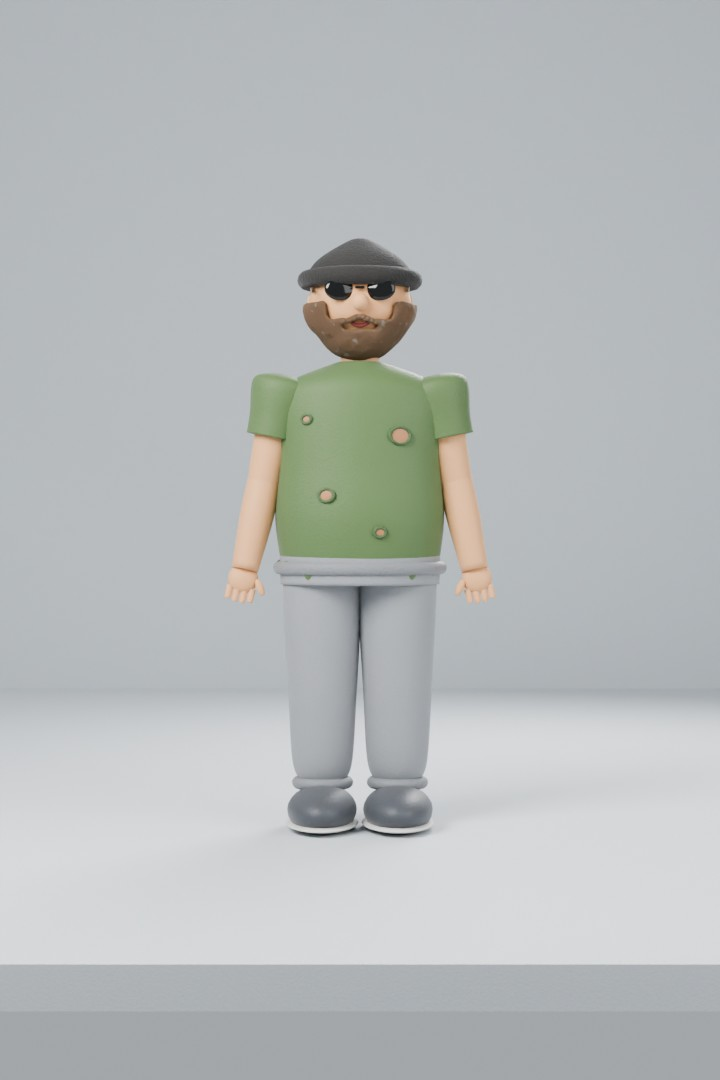
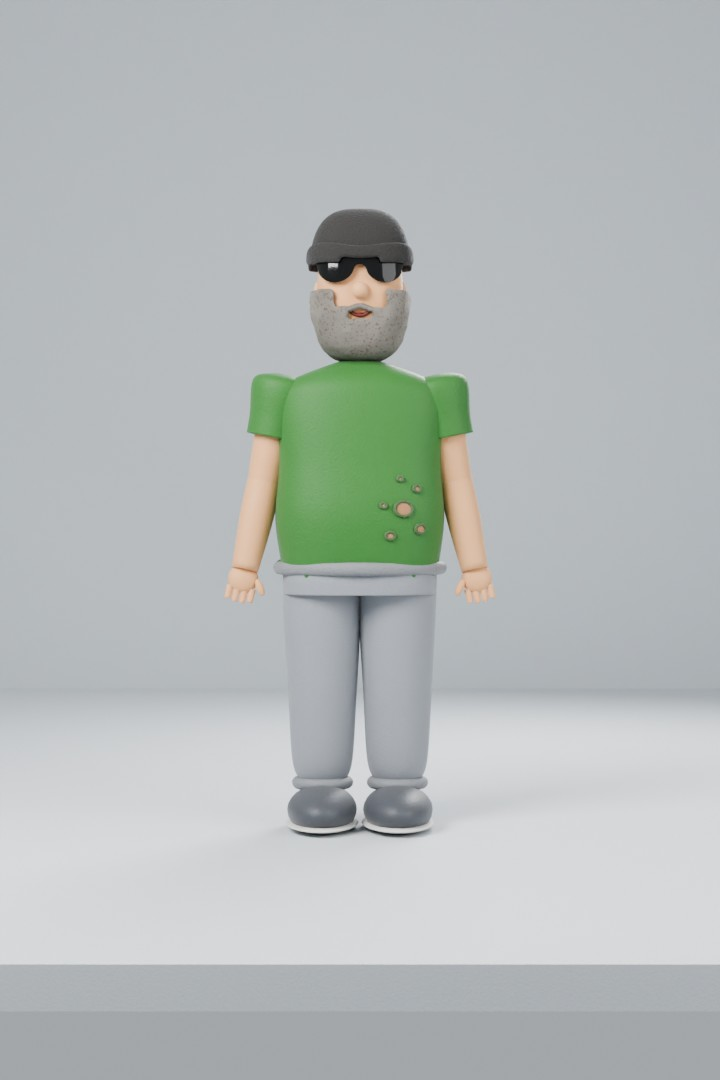
Clay cast round 2: tall rounded-rectangle heads, square chins, wraparound shades, grey beard, bolder colors, blue eyes for Noah
Claude-Session: https://claude.ai/code/session_019LTUK5TRCUq7exxyQvjX2M

Changed region(s): [[0.3361, 0.1833, 0.6722, 0.5806]]

diff --git a/clay/sheets/sheets.src.html b/clay/sheets/sheets.src.html
@@ -88,8 +88,9 @@ dd { margin: 0; font-size: 15px; }
 
 <div class="wrap">
   <header>
-    <div class="eyebrow">Life at Tradesman · clay version · draft 4 · first clay sculpts</div>
+    <div class="eyebrow">Life at Tradesman · clay version · draft 5 · clay sculpts, round 2</div>
     <h1>Clay model sheets for Noah, Lu and the Boss</h1>
+    <p><b>Style (round 2):</b> taller, narrower heads shaped like rounded rectangles in the spirit of Gromit, with squarer chins for Lu and the Boss and bolder clothing colors.</p>
     <p>Drafted from your comic, not from the v1 cartoon puppets, and now with a first clay sculpt of each character at the bottom of their sheet. Each sheet pins down what has to stay true to the comic (silhouette, hair, face, outfit, colors) so the clay builds match it. Correct anything that is wrong. The handwritten questions are the things I could not tell from the comic.</p>
   </header>
 
@@ -103,7 +104,7 @@ dd { margin: 0; font-size: 15px; }
     <div class="sheet-head"><h2>Noah</h2><span class="role">The kid with the clipboard and the red cape</span><span class="no">SHEET 1 / 3</span></div>
     <div class="sheet-body">
       <div class="refs">
-        <figure><img src="{{noah-phone}}" alt="Comic panel: Noah running and shouting into a phone, red cape flying"><figcaption>best face reference: big brown eyes, shaggy fringe, cape tied at the throat</figcaption></figure>
+        <figure><img src="{{noah-phone}}" alt="Comic panel: Noah running and shouting into a phone, red cape flying"><figcaption>best face reference: shaggy fringe, cape tied at the throat</figcaption></figure>
         <div class="pair">
           <figure><img src="{{noah-check}}" alt="Comic panel: Noah writing on a clipboard"><figcaption>focused face, pen grip, clipboard</figcaption></figure>
           <figure><img src="{{chase}}" alt="Comic panel: Lu chasing Noah down the road, seen from behind"><figcaption>back view: cape, shorts, boots</figcaption></figure>
@@ -113,7 +114,7 @@ dd { margin: 0; font-size: 15px; }
         <div><h3>What must read</h3>
           <dl>
             <dt>Silhouette</dt><dd>Small, slim 8-year-old, about chest-height to Lu. The cape streams out behind him whenever he moves.</dd>
-            <dt>Head</dt><dd>Round face, soft chin, small button nose, big brown eyes with white highlights, very expressive brows.</dd>
+            <dt>Head</dt><dd>Round face, soft chin, small button nose, big blue eyes with white highlights, very expressive brows.</dd>
             <dt>Hair</dt><dd>Medium brown, short and shaggy. Pointed tufts fall over the forehead, with a few strands sticking up at the crown.</dd>
             <dt>Outfit</dt><dd>Slate-blue crew-neck tee with a small hot-tub logo on the chest (Noah's hot tub business; new for the clay version), olive-khaki shorts to the knee, white crew socks, brown lace-up boots.</dd>
             <dt>Signature</dt><dd>A red cape, tied at the throat, that streams out behind him. Clipboard and pen, and a phone in the call scene.</dd>
@@ -123,9 +124,9 @@ dd { margin: 0; font-size: 15px; }
           <div class="swatches">
             <div class="sw"><i style="background:#5b3a22"></i><span>Hair</span><code>#5b3a22</code></div>
             <div class="sw"><i style="background:#eab98f"></i><span>Skin</span><code>#eab98f</code></div>
-            <div class="sw"><i style="background:#4f6a7d"></i><span>Tee</span><code>#4f6a7d</code></div>
-            <div class="sw"><i style="background:#c4472e"></i><span>Cape</span><code>#c4472e</code></div>
-            <div class="sw"><i style="background:#636036"></i><span>Shorts</span><code>#636036</code></div>
+            <div class="sw"><i style="background:#1f4f9e"></i><span>Tee</span><code>#1f4f9e</code></div>
+            <div class="sw"><i style="background:#e01b1b"></i><span>Cape</span><code>#e01b1b</code></div>
+            <div class="sw"><i style="background:#6a6620"></i><span>Shorts</span><code>#6a6620</code></div>
             <div class="sw"><i style="background:#7b4a29"></i><span>Boots</span><code>#7b4a29</code></div>
           </div></div>
         <div><h3>Clay translation</h3>
@@ -145,8 +146,8 @@ dd { margin: 0; font-size: 15px; }
       </div>
     </div>
       <div class="turn">
-      <h3>Clay turnaround · first sculpt</h3>
-      <p>Shaggy brown locks with the fringe at his brows, big brown eyes, the red cape tied at the throat, and the little hot tub with steam on his tee.</p>
+      <h3>Clay turnaround · round 2</h3>
+      <p>Shaggy brown locks with the fringe at his brows, big blue eyes (blue in real life), the red cape tied at the throat, and the little hot tub with steam on his tee.</p>
       <div class="views"><figure><img src="{{turn:noah_front}}" alt="Clay noah front view"><figcaption>front</figcaption></figure><figure><img src="{{turn:noah_three-quarter}}" alt="Clay noah ¾ view"><figcaption>¾</figcaption></figure><figure><img src="{{turn:noah_side}}" alt="Clay noah side view"><figcaption>side</figcaption></figure><figure><img src="{{turn:noah_back}}" alt="Clay noah back view"><figcaption>back</figcaption></figure></div>
       <div class="faces"><figure><img src="{{turn:noah_expr_focused}}" alt="Clay noah, focused expression"><figcaption>focused</figcaption></figure><figure><img src="{{turn:noah_expr_startled}}" alt="Clay noah, startled expression"><figcaption>startled</figcaption></figure><figure><img src="{{turn:noah_expr_yell}}" alt="Clay noah, yell expression"><figcaption>yell</figcaption></figure></div>
     </div>
@@ -196,8 +197,8 @@ dd { margin: 0; font-size: 15px; }
       </div>
     </div>
       <div class="turn">
-      <h3>Clay turnaround · first sculpt</h3>
-      <p>Swept-up black hair, thin amber glasses, a faint five o'clock shadow on the jaw, and the Olympic rings on his cream tee.</p>
+      <h3>Clay turnaround · round 2</h3>
+      <p>Swept-up black hair with the hairline raised off his brows, thin amber glasses, a faint five o'clock shadow on a squarer jaw, and the Olympic rings on his tee.</p>
       <div class="views"><figure><img src="{{turn:lu_front}}" alt="Clay lu front view"><figcaption>front</figcaption></figure><figure><img src="{{turn:lu_three-quarter}}" alt="Clay lu ¾ view"><figcaption>¾</figcaption></figure><figure><img src="{{turn:lu_side}}" alt="Clay lu side view"><figcaption>side</figcaption></figure><figure><img src="{{turn:lu_back}}" alt="Clay lu back view"><figcaption>back</figcaption></figure></div>
       <div class="faces"><figure><img src="{{turn:lu_expr_beaming}}" alt="Clay lu, beaming expression"><figcaption>beaming</figcaption></figure><figure><img src="{{turn:lu_expr_determined}}" alt="Clay lu, determined expression"><figcaption>determined</figcaption></figure><figure><img src="{{turn:lu_expr_no}}" alt="Clay lu, No! expression"><figcaption>No!</figcaption></figure></div>
     </div>
@@ -217,7 +218,7 @@ dd { margin: 0; font-size: 15px; }
         <div><h3>What must read</h3>
           <dl>
             <dt>Silhouette</dt><dd>Broad and stocky with thick arms and a solid chest. Wider than Lu, a little shorter.</dd>
-            <dt>Head</dt><dd>Always a black rolled-cuff beanie and black sunglasses. A short full beard, light brown with some grey. A big crinkly grin.</dd>
+            <dt>Head</dt><dd>Always a black rolled-cuff beanie and black sunglasses. A short full beard, mostly grey with some light-brown streaks. A big crinkly grin.</dd>
             <dt>Outfit</dt><dd>The same old sage-green tee, worn thin, fraying and shredded in places with holes. Gray sweatpants. Dark swim shorts in the tub.</dd>
             <dt>Signature</dt><dd>Phone to his ear in the tub. Drives the brown four-door sedan.</dd>
             <dt>Acting range</dt><dd>Big laugh, confident "I'll take care of it", surprised O-mouth in the car.</dd>
@@ -227,17 +228,17 @@ dd { margin: 0; font-size: 15px; }
             <div class="sw"><i style="background:#2b2927"></i><span>Beanie</span><code>#2b2927</code></div>
             <div class="sw"><i style="background:#141414"></i><span>Shades</span><code>#141414</code></div>
             <div class="sw"><i style="background:#d9a476"></i><span>Skin</span><code>#d9a476</code></div>
-            <div class="sw"><i style="background:#8a6c52"></i><span>Beard</span><code>#8a6c52</code></div>
-            <div class="sw"><i style="background:#566f42"></i><span>Tee</span><code>#566f42</code></div>
+            <div class="sw"><i style="background:#a39c93"></i><span>Beard</span><code>#a39c93</code></div>
+            <div class="sw"><i style="background:#33702b"></i><span>Tee</span><code>#33702b</code></div>
             <div class="sw"><i style="background:#8e9093"></i><span>Sweats</span><code>#8e9093</code></div>
             <div class="sw"><i style="background:#6e4a2c"></i><span>Sedan</span><code>#6e4a2c</code></div>
           </div></div>
         <div><h3>Clay translation</h3>
           <ul class="clay">
-            <li>Shades as one glossy black piece, so his eyes never need animating; the brows and grin do the acting.</li>
+            <li>Shades as one glossy black wraparound wayfarer piece with no visible rims, so his eyes never need animating; the grin does the acting.</li>
             <li>Beard textured with tool marks, to set it apart from the smooth skin.</li>
             <li>The beanie's rolled cuff as a separate sculpted band.</li>
-            <li>Holes and frayed edges cut into the tee, with skin showing through.</li>
+            <li>Holes and frayed edges in one cluster low on the belly, with skin showing through.</li>
           </ul></div>
         <div class="ask"><h3>Questions for you</h3>
           <ol>
@@ -248,8 +249,8 @@ dd { margin: 0; font-size: 15px; }
       </div>
     </div>
       <div class="turn">
-      <h3>Clay turnaround · first sculpt</h3>
-      <p>Beanie and shades, a light-brown tooled-clay beard with grey flecks, the shredded old green tee with holes, and gray sweatpants.</p>
+      <h3>Clay turnaround · round 2</h3>
+      <p>Beanie and wraparound wayfarer shades, a grey tooled-clay beard with light-brown streaks, the old green tee with a cluster of holes low on the belly, and gray sweatpants.</p>
       <div class="views"><figure><img src="{{turn:boss_front}}" alt="Clay boss front view"><figcaption>front</figcaption></figure><figure><img src="{{turn:boss_three-quarter}}" alt="Clay boss ¾ view"><figcaption>¾</figcaption></figure><figure><img src="{{turn:boss_side}}" alt="Clay boss side view"><figcaption>side</figcaption></figure><figure><img src="{{turn:boss_back}}" alt="Clay boss back view"><figcaption>back</figcaption></figure></div>
       <div class="faces"><figure><img src="{{turn:boss_expr_laugh}}" alt="Clay boss, laugh expression"><figcaption>laugh</figcaption></figure><figure><img src="{{turn:boss_expr_on-it}}" alt="Clay boss, on it expression"><figcaption>on it</figcaption></figure><figure><img src="{{turn:boss_expr_surprised}}" alt="Clay boss, surprised expression"><figcaption>surprised</figcaption></figure></div>
     </div>

diff --git a/clay/blender/cast.py b/clay/blender/cast.py
@@ -19,15 +19,16 @@ def smooth_profile(pts, n=6):
     out.append(pts[-1])
     return out
 
-def lathe_bm(profile, seg=32, close=True):
+def lathe_bm(profile, seg=32, close=True, p=2.0):
     """Body of revolution with an elliptical section; profile = [(z, rx, ry[, yoff])], bottom to top."""
     bm = bmesh.new()
     prof = smooth_profile(profile)
     rings = []
-    for p in prof:
-        z, rx, ry = p[0], max(p[1], 1e-4), max(p[2], 1e-4)
-        yo = p[3] if len(p) > 3 else 0
-        rings.append([bm.verts.new((rx * math.cos(a), yo + ry * math.sin(a), z)) for a in (i / seg * 2 * math.pi for i in range(seg))])
+    sq = lambda u: math.copysign(abs(u) ** (2 / p), u)
+    for q in prof:
+        z, rx, ry = q[0], max(q[1], 1e-4), max(q[2], 1e-4)
+        yo = q[3] if len(q) > 3 else 0
+        rings.append([bm.verts.new((rx * sq(math.cos(a)), yo + ry * sq(math.sin(a)), z)) for a in (i / seg * 2 * math.pi for i in range(seg))])
     for r0, r1 in zip(rings, rings[1:]):
         for i in range(seg):
             bm.faces.new((r0[i], r0[(i + 1) % seg], r1[(i + 1) % seg], r1[i]))
@@ -40,8 +41,8 @@ def lathe_bm(profile, seg=32, close=True):
     bm.normal_update()
     return bm
 
-def lathe(name, mat, profile, parent=None, loc=(0, 0, 0), rot=(0, 0, 0), lumpy=0.003, seg=32):
-    return _finish(name, lathe_bm(profile, seg), mat, parent, loc, rot, lumpy)
+def lathe(name, mat, profile, parent=None, loc=(0, 0, 0), rot=(0, 0, 0), lumpy=0.003, seg=32, p=2.0):
+    return _finish(name, lathe_bm(profile, seg, p=p), mat, parent, loc, rot, lumpy)
 
 def lock(name, mat, base, direction, length, r, parent, bend=0.0, lumpy=0.004):
     """Teardrop hair lock / tuft from base along direction."""
@@ -55,11 +56,14 @@ def lock(name, mat, base, direction, length, r, parent, bend=0.0, lumpy=0.004):
     ob.rotation_quaternion = Vector((0, 0, 1)).rotation_difference(Vector(direction).normalized())
     return ob
 
-def head_bm(R, sx=1.0, sy=1.0, sz=1.15, jaw=0.25, chin=0.08, cheek=0.06, back=0.05):
+def head_bm(R, sx=1.0, sy=1.0, sz=1.15, jaw=0.25, chin=0.08, cheek=0.06, back=0.05, p=2.0):
+    """Head: a superellipsoid (p > 2 squares it off toward a rounded rectangle), tapered jaw, chin, cheeks."""
     bm = bmesh.new()
-    bmesh.ops.create_uvsphere(bm, u_segments=48, v_segments=32, radius=1)
+    bmesh.ops.create_uvsphere(bm, u_segments=48, v_segments=40, radius=1)
     for v in bm.verts:
         x, y, z = v.co
+        k = (abs(x) ** p + abs(y) ** p + abs(z) ** p) ** (-1 / p)
+        x, y, z = x * k, y * k, z * k
         if z < 0:
             x *= 1 - jaw * (-z) ** 1.5
             if y < 0: y -= chin * max(0, -z - 0.55) * 2.0
@@ -133,11 +137,11 @@ def beard_mat(color):
     L.new(tc.outputs['Object'], mp.inputs['Vector'])
     wv = N.new('ShaderNodeTexWave'); wv.wave_type = 'BANDS'; wv.bands_direction = 'X'; wv.inputs['Distortion'].default_value = 6; wv.inputs['Detail'].default_value = 3
     L.new(mp.outputs['Vector'], wv.inputs['Vector'])
-    nz = N.new('ShaderNodeTexNoise'); nz.inputs['Scale'].default_value = 40
+    nz = N.new('ShaderNodeTexNoise'); nz.inputs['Scale'].default_value = 130
     L.new(tc.outputs['Object'], nz.inputs['Vector'])
     mix = N.new('ShaderNodeMix'); mix.data_type = 'RGBA'
-    mix.inputs['A'].default_value = (*hexcol(color), 1); mix.inputs['B'].default_value = (*hexcol('#9d958b'), 1)
-    gate = N.new('ShaderNodeMapRange'); gate.inputs['From Min'].default_value = 0.64; gate.inputs['From Max'].default_value = 0.75
+    mix.inputs['A'].default_value = (*hexcol(color), 1); mix.inputs['B'].default_value = (*hexcol('#8a7868'), 1)
+    gate = N.new('ShaderNodeMapRange'); gate.inputs['From Min'].default_value = 0.56; gate.inputs['From Max'].default_value = 0.66
     L.new(nz.outputs['Fac'], gate.inputs['Value']); L.new(gate.outputs[0], mix.inputs['Factor'])
     L.new(mix.outputs['Result'], b.inputs['Base Color'])
     bp = N.new('ShaderNodeBump'); bp.inputs['Strength'].default_value = 0.8; bp.inputs['Distance'].default_value = 0.004
@@ -145,19 +149,19 @@ def beard_mat(color):
     return m
 
 CAST = {
-    'noah': dict(height=1.2, hip=0.5, leg=0.46, legr=0.055, head=0.15, headS=(1.0, 0.98, 1.12), jaw=0.22, chin=0.03, cheek=0.09,
-                 skin='#eab98f', hair='#5b3a22', iris='#6b4423', shirt='#4f6a7d', bottom='#636036', shoes='#7b4a29', socks='#efe9dc',
-                 cape='#c4472e', torso=[(-0.06, 0.135, 0.1), (0.06, 0.14, 0.105), (0.2, 0.135, 0.1), (0.3, 0.15, 0.1), (0.36, 0.13, 0.09), (0.4, 0.05, 0.045)],
-                 shoulder=0.125, sz=0.33, up=0.2, fore=0.18, armr=0.042, hand=0.042, eye=0.032, eyeX=0.058, eyeZ=0.01, nose=(0.018, 0.016, 0.014)),
-    'lu':   dict(height=1.85, hip=0.95, leg=0.88, legr=0.062, head=0.14, headS=(0.9, 0.98, 1.22), jaw=0.32, chin=0.06, cheek=0.03,
-                 skin='#e7b287', hair='#1f1b19', iris='#2a1d14', shirt='#f0e9d8', bottom='#25272b', shoes='#b9bcbf', sole='#f2f2ee',
+    'noah': dict(height=1.2, hip=0.5, leg=0.46, legr=0.055, head=0.15, headS=(0.86, 0.9, 1.36), headP=2.5, jaw=0.12, chin=0.02, cheek=0.05,
+                 skin='#eab98f', hair='#5b3a22', iris='#2f7fd0', shirt='#1f4f9e', bottom='#6a6620', shoes='#7b4a29', socks='#efe9dc',
+                 cape='#e01b1b', torso=[(-0.06, 0.135, 0.1), (0.06, 0.14, 0.105), (0.2, 0.135, 0.1), (0.3, 0.15, 0.1), (0.36, 0.13, 0.09), (0.4, 0.05, 0.045)],
+                 shoulder=0.125, sz=0.33, up=0.2, fore=0.18, armr=0.042, hand=0.042, eye=0.032, eyeX=0.056, eyeZ=0.02, mouthZ=0.34, nose=(0.018, 0.016, 0.014)),
+    'lu':   dict(height=1.85, hip=0.95, leg=0.88, legr=0.062, head=0.14, headS=(0.76, 0.9, 1.5), headP=3.0, jaw=0.05, chin=0.03, cheek=0.0,
+                 skin='#e7b287', hair='#1f1b19', iris='#2a1d14', shirt='#f8f4ea', bottom='#1d1f23', shoes='#b9bcbf', sole='#f2f2ee',
                  frames='#8a6a3e', shadow=True,
                  torso=[(-0.08, 0.17, 0.11), (0.05, 0.17, 0.11), (0.25, 0.165, 0.11), (0.45, 0.2, 0.12), (0.53, 0.18, 0.11), (0.58, 0.06, 0.055)],
-                 shoulder=0.185, sz=0.5, up=0.3, fore=0.28, armr=0.046, hand=0.05, eye=0.026, eyeX=0.052, eyeZ=0.015, eyeSquash=0.8, nose=(0.016, 0.02, 0.026)),
-    'boss': dict(height=1.75, hip=0.86, leg=0.8, legr=0.085, head=0.15, headS=(1.0, 1.0, 1.15), jaw=0.15, chin=0.05, cheek=0.08,
-                 skin='#d9a476', hair='#8a6c52', shirt='#566f42', bottom='#8e9093', shoes='#4a4d52', sole='#d8d6d0', beanie='#2b2927',
-                 shades='#111111', beard='#8a6c52', torso=[(-0.08, 0.24, 0.17), (0.08, 0.26, 0.19), (0.25, 0.25, 0.17), (0.42, 0.26, 0.15), (0.5, 0.22, 0.13), (0.56, 0.07, 0.065)],
-                 shoulder=0.235, sz=0.47, up=0.29, fore=0.27, armr=0.055, hand=0.055, eye=0.03, eyeX=0.056, eyeZ=0.015, nose=(0.026, 0.026, 0.026)),
+                 shoulder=0.185, sz=0.5, up=0.3, fore=0.28, armr=0.046, hand=0.05, eye=0.025, eyeX=0.048, eyeZ=0.035, mouthZ=0.4, eyeSquash=0.8, nose=(0.016, 0.02, 0.026)),
+    'boss': dict(height=1.75, hip=0.86, leg=0.8, legr=0.085, head=0.15, headS=(0.86, 0.95, 1.4), headP=3.2, jaw=0.03, chin=0.03, cheek=0.03,
+                 skin='#d9a476', hair='#8a6c52', shirt='#33702b', bottom='#8a8d92', shoes='#4a4d52', sole='#d8d6d0', beanie='#2b2927',
+                 shades='#0c0c0c', beard='#a39c93', torso=[(-0.08, 0.24, 0.17), (0.08, 0.26, 0.19), (0.25, 0.25, 0.17), (0.42, 0.26, 0.15), (0.5, 0.22, 0.13), (0.56, 0.07, 0.065)],
+                 shoulder=0.235, sz=0.47, up=0.29, fore=0.27, armr=0.055, hand=0.055, eye=0.03, eyeX=0.054, eyeZ=0.04, mouthZ=0.42, nose=(0.026, 0.026, 0.026)),
 }
 
 
@@ -194,8 +198,8 @@ class Clay:
         # ---- torso (shirt), waistband, logo
         self.torso = empty(who + '.torso', self.hips)
         prof = [(z, rx, ry) for z, rx, ry in c['torso']]
-        self.shirtOb = lathe(who + '.shirt', shirt, prof, self.torso, lumpy=0.004)
-        lathe(who + '.waist', bottom, [(-0.12, prof[0][1] * 1.02, prof[0][2] * 1.03), (-0.04, prof[0][1] * 1.03, prof[0][2] * 1.04), (0.0, prof[0][1] * 1.02, prof[0][2] * 1.03)], self.torso)
+        self.shirtOb = lathe(who + '.shirt', shirt, prof, self.torso, lumpy=0.004, p=2.6)
+        lathe(who + '.waist', bottom, [(prof[0][0] - 0.07, prof[0][1] * 0.97, prof[0][2] * 0.97), (prof[0][0] - 0.03, prof[0][1] * 0.98, prof[0][2] * 0.98), (prof[0][0] + 0.01, prof[0][1] * 0.96, prof[0][2] * 0.96)], self.torso, p=2.6)
         if who == 'boss':
             band = torus(who + '.band', clay('#7f8184', bump=0.6), prof[0][1] * 1.03, 0.02, self.torso, (0, 0, -0.07), (math.pi / 2, 0, 0))
             band.scale = (1, 1, prof[0][2] / prof[0][1])
@@ -221,8 +225,8 @@ class Clay:
                 x0 = -0.015 + k * 0.015
                 snake(f'{who}.steam{k}', clay('#f4f4f0', bump=0.05), [(x0, 0, 0.022), (x0 + 0.005, 0, 0.03), (x0 - 0.003, 0, 0.038), (x0 + 0.004, 0, 0.046)], 0.0022, g, (0, -0.003, 0))
         if who == 'boss':  # the old green tee, shredding: holes with frayed rims, skin showing
-            for i, (x, z, back, r) in enumerate([(0.12, 0.33, False, 0.032), (-0.1, 0.15, False, 0.024), (0.06, 0.04, False, 0.018),
-                                                 (-0.16, 0.38, False, 0.016), (0.1, 0.25, True, 0.03), (-0.06, 0.4, True, 0.02)]):
+            for i, (x, z, back, r) in enumerate([(0.13, 0.11, False, 0.028), (0.18, 0.05, False, 0.017), (0.09, 0.03, False, 0.014),
+                                                 (0.17, 0.17, False, 0.012), (0.07, 0.12, False, 0.009), (0.12, 0.2, False, 0.008)]):
                 p, n = on_shirt(x, z, back)
                 if p is None: continue
                 d = blob(f'{who}.hole{i}', clay('#a87a55', sss=0.1, bump=0.3), (r, r * 0.8, 0.004), (0, 0, 0), self.torso, loc=p + n * 0.001, lumpy=0); aim(d, n)
@@ -259,13 +263,19 @@ class Clay:
         lathe(who + '.neckb', skin, [(-0.04, 0.045 if who != 'boss' else 0.06, 0.045), (0.06, 0.042 if who != 'boss' else 0.058, 0.042)], self.neck)
         self.head = empty(who + '.head', self.neck, (0, 0, 0.05))
         hc = Vector((0, 0, R * S[2] * 0.95)); self.hc = hc; self.R = R
-        bm = head_bm(R, *S, jaw=c['jaw'], chin=c['chin'], cheek=c['cheek'])
-        hbvh = BVHTree.FromBMesh(bm)
+        self.hp = dict(jaw=c['jaw'], chin=c['chin'], cheek=c['cheek'], p=c.get('headP', 2.0))
+        bm = head_bm(R, *S, **self.hp)
+        hbvh = BVHTree.FromBMesh(bm); self.hbvh = hbvh
         self.skull = _finish(who + '.skull', bm, skin, self.head, hc, (0, 0, 0), 0.002)
         def surf(x, z):
             hit = hbvh.ray_cast(Vector((x, -5, z)), Vector((0, 1, 0)))
             return (hit[0] + hc, hit[1]) if hit[0] else (None, None)
         self.surf = surf
+        def scalp_(th, ph, k=1.0):
+            d = Vector((math.sin(ph) * math.sin(th), math.sin(ph) * math.cos(th), math.cos(ph)))
+            hit = hbvh.ray_cast(Vector((0, 0, 0)), d)
+            return hc + d * (hit[3] if hit[0] else R) * k
+        self.scalp = scalp_
         if c.get('shadow'):  # Lu's five o'clock shadow: the skin greys a little below the nose
             self.skull.data.materials[0] = shadow_skin(c['skin'], R, S)
         # nose, ears
@@ -303,7 +313,7 @@ class Clay:
                 for ch in b.children: ch.hide_render = True
         self.er = er
         # mouth
-        mz = -R * S[2] * 0.48
+        mz = -R * S[2] * c.get('mouthZ', 0.48)
         p, n = surf(0, mz)
         self.mouthP = empty(who + '.mouthP', self.head, p + Vector((0, 0.004, 0)))
         self.mouthOpen = blob(who + '.mouth', clay('#5a1f1c', rough=0.5, bump=0.05, prints=0), (R * 0.26, R * 0.1, R * 0.17), (0, 0, 0), self.mouthP, lumpy=0)
@@ -328,7 +338,8 @@ class Clay:
         """Shaggy brown hair: a cap plus tapered locks flowing from the crown; the fringe falls to the brows."""
         R, hc, S = self.R, self.hc, self.c['headS']
         hm = clay(self.c['hair'], rough=0.6, bump=0.55, prints=1.2)
-        blob('noah.cap', hm, (R * S[0] * 1.0, R * S[1] * 1.0, R * S[2] * 0.7), (0, 0, 0), self.head, loc=hc + Vector((0, R * 0.05, R * 0.3)), lumpy=0.004)
+        top = R * S[2]
+        self._shell('noah.cap', hm, lambda x, y, z: z > (0.5 * top if y < -0.45 * R * S[1] else -0.05 * top if y < 0.3 * R else -0.35 * top), 0.002, 0.014, 0.004)
         crown = (0.0, 0.12)
         n = 0
         for row, (ph1, k) in enumerate([(0.6, 1.08), (0.75, 1.06), (0.9, 1.03)]):
@@ -341,14 +352,14 @@ class Clay:
                 for t in (0, 0.33, 0.66, 1.0):
                     ph = crown[1] * math.pi + (end_ph - crown[1] * math.pi) * t
                     kk = k + 0.06 * math.sin(t * math.pi) + (0.05 * t if not face else 0.0)
-                    pts.append(scalp(hc, R, S, th + rnd.uniform(-0.05, 0.05) * t, ph, kk))
+                    pts.append(self.scalp(th + rnd.uniform(-0.05, 0.05) * t, ph, kk))
                 # tips flick out a little
                 tip = pts[-1] + (pts[-1] - hc).normalized() * R * 0.08 + Vector((0, 0, -R * 0.05))
                 pts.append(tip)
                 strand(f'noah.lock{n}', hm, pts, R * rnd.uniform(0.17, 0.21), self.head)
                 n += 1
         for i, (th, l) in enumerate([(0.3, 0.45), (-0.4, 0.38), (0.05, 0.5)]):  # a few strands sticking up at the crown
-            b0 = scalp(hc, R, S, th, 0.18 * math.pi, 1.0)
+            b0 = self.scalp(th, 0.18 * math.pi, 1.0)
             strand(f'noah.cowlick{i}', hm, [b0, b0 + Vector((math.sin(th) * 0.3, 0.4, 1)).normalized() * R * l * 0.5,
                                              b0 + Vector((math.sin(th) * 0.6, 0.9, 0.9)).normalized() * R * l], R * 0.08, self.head)
 
@@ -356,15 +367,17 @@ class Clay:
         """Black hair, short at the sides, the top swept up and back from the hairline."""
         R, hc, S = self.R, self.hc, self.c['headS']
         hm = clay(self.c['hair'], rough=0.5, bump=0.5, prints=1.0)
-        blob('lu.cap', hm, (R * S[0] * 1.02, R * S[1] * 1.02, R * S[2] * 0.72), (0, 0, 0), self.head, loc=hc + Vector((0, R * 0.04, R * 0.33)), lumpy=0.003)
-        n = 0
         top = R * S[2]
+        self._shell('lu.cap', hm, lambda x, y, z: z > (0.66 * top if y < -0.45 * R * S[1] else 0.12 * top if y < 0.3 * R else -0.15 * top), 0.002, 0.01, 0.003)
+        n = 0
         for row in range(3):  # quiff: up from the hairline, then back over the crown
             count = 7
             for i in range(count):
                 x = (i / (count - 1) - 0.5) * 1.3 * R * S[0] * (1 - row * 0.15)
-                y0 = -R * S[1] * (0.62 - row * 0.25)
-                z0 = top * (0.58 + row * 0.2)
+                z0 = top * (0.68 + row * 0.13)
+                sp, _ = self.surf(x, z0)
+                if sp is None: continue
+                y0 = sp.y + R * 0.02 + row * R * 0.18
                 lift = R * (0.42 - row * 0.1) * (1 - abs(x) / (R * 1.4))
                 pts = [hc + Vector((x, y0, z0)),
                        hc + Vector((x * 1.05, y0 - R * 0.05, z0 + lift * 0.8)),
@@ -375,28 +388,49 @@ class Clay:
         for i in range(18):  # short sides and back
             th = i / 18 * 2 * math.pi
             if math.cos(th) < -0.6: continue
-            pts = [scalp(hc, R, S, th, (0.3 + t * (0.2 + 0.14 * max(0.0, math.cos(th)))) * math.pi, 1.03) for t in (0, 0.5, 1.0)]
+            pts = [self.scalp(th, (0.25 + t * (0.17 + 0.14 * max(0.0, math.cos(th)))) * math.pi, 1.03) for t in (0, 0.5, 1.0)]
             strand(f'lu.side{i}', hm, pts, R * 0.11, self.head, taper=(1.0, 0.8, 0.3)); n += 1
 
     def _boss_head(self, rnd):
         R, hc, S, c = self.R, self.hc, self.c['headS'], self.c
         bean = clay(c['beanie'], rough=0.85, bump=0.9, prints=0.6)
-        lathe('boss.beanie', bean, [(R * 0.3, R * S[0] * 1.07, R * S[1] * 1.07), (R * 0.55, R * S[0] * 1.06, R * S[1] * 1.06), (R * 0.85, R * 0.8, R * 0.8), (R * 1.18, R * 0.25, R * 0.25), (R * 1.24, 0.004, 0.004)],
-              self.head, loc=hc + Vector((0, 0.008, 0)), lumpy=0.004)
-        cuff = torus('boss.cuff', bean, R * S[0] * 1.1, 0.028, self.head, hc + Vector((0, 0.006, R * 0.38)), (math.pi / 2, 0, 0), lumpy=0.003)
-        cuff.scale = (1, 1, S[1] / S[0])
-        # sunglasses: two glossy black lenses, bridge, arms
-        sm = clay(c['shades'], rough=0.08, bump=0.0, prints=0)
+        top = R * S[2]
+        self._shell('boss.beanie', bean, lambda x, y, z: z > 0.36 * top, 0.006, 0.02, 0.003)
+        self._shell('boss.cuff', bean, lambda x, y, z: 0.3 * top < z < 0.52 * top, 0.022, 0.016, 0.002)
+        # sunglasses: one glossy wraparound wayfarer piece, flat top, two lenses, notch at the bridge
+        sm = clay(c['shades'], rough=0.06, bump=0.0, prints=0)
+        zc = c['eyeZ']
+        def hug(a, z, out):
+            d = Vector((math.sin(a), -math.cos(a), 0))
+            hit = self.hbvh.ray_cast(Vector((0, 0, z)), d)
+            return Vector((0, 0, z)) + d * ((hit[3] if hit[0] else R) + out) + hc
+        bmg = bmesh.new(); cols_, rows_ = 48, 6; A = 1.2
+        def lo(a):
+            aa = abs(a)
+            if aa < 0.1: return zc + 0.012
+            if aa < 0.85:
+                t = (aa - 0.1) / 0.75
+                return zc + 0.012 - 0.05 * math.sin(math.pi * min(1, t)) ** 0.55 - 0.006 * (1 - t)
+            return zc + 0.032
+        grid = []
+        for i in range(cols_ + 1):
+            a = -A + 2 * A * i / cols_
+            hi = zc + 0.044 + 0.004 * abs(a)
+            grid.append([bmg.verts.new(hug(a, lo(a) + (hi - lo(a)) * j / rows_, 0.014 + 0.004 * abs(a))) for j in range(rows_ + 1)])
+        for i in range(cols_):
+            for j in range(rows_):
+                bmg.faces.new((grid[i][j], grid[i + 1][j], grid[i + 1][j + 1], grid[i][j + 1]))
+        bmg.normal_update()
+        sh_ = _finish('boss.shades', bmg, sm, self.head, (0, 0, 0), (0, 0, 0), 0)
+        so = sh_.modifiers.new('thick', 'SOLIDIFY'); so.thickness = 0.007; so.offset = 0
+        bv = sh_.modifiers.new('round', 'BEVEL'); bv.width = 0.002; bv.segments = 2
         for side, sx in (('L', 1), ('R', -1)):
-            p, n = self.surf(sx * c['eyeX'], c['eyeZ'])
-            l = blob(f'boss.lens{side}', sm, (0.047, 0.013, 0.034), (0, 0, 0), self.head, loc=p + Vector((sx * 0.004, -0.008, 0)), rot=(0, 0, sx * -0.18), lumpy=0)
-            blob(f'boss.arm{side}', sm, (0.004, R * 0.55, 0.005), (0, 0, 0), self.head, loc=(sx * R * S[0] * 0.98, -R * 0.4, p.z + 0.006))
-        p, n = self.surf(0, c['eyeZ'] + 0.004)
-        box('boss.bridge', sm, (0.03, 0.008, 0.008), (0, 0, 0), self.head, loc=p + Vector((0, -0.012, 0)), bevel=0.003)
+            ep = hug(sx * A, zc + 0.04, 0.012)
+            blob(f'boss.arm{side}', sm, (0.004, R * 0.5, 0.006), (0, 0, 0), self.head, loc=(ep.x, ep.y + R * 0.45, ep.z))
         # beard: a shell cut from the head shape, pushed out and textured like tooled clay
         bm_ = beard_mat(c['beard'])
         mz = self.mouthP.location.z - hc.z
-        hb = head_bm(R, *S, jaw=c['jaw'], chin=c['chin'], cheek=c['cheek'])
+        hb = head_bm(R, *S, **self.hp)
         def keep(v):
             x, y, z = v
             if y > 0.3 * R: return False
@@ -419,6 +453,17 @@ class Clay:
             if hit is None: continue
             p, n = hit
             blob(f'boss.stache{k}', bm_, (0.016, 0.012, 0.009), (0, 0, 0), self.head, loc=p + n * 0.008, rot=(0, (k / 9 - 0.5) * 0.8, 0), lumpy=0)
+
+    def _shell(self, name, mat, keep, push=0.004, thick=0.012, lumpy=0.0):
+        """A layer sculpted over part of the head (hair cap, beanie, beard): the head shape cut by keep(x, y, z)."""
+        hb = head_bm(self.R, *self.c['headS'], **self.hp)
+        bmesh.ops.delete(hb, geom=[f for f in hb.faces if not keep(*f.calc_center_median())], context='FACES')
+        for v in hb.verts:
+            v.co += v.normal * push
+        ob = _finish(name, hb, mat, self.head, self.hc, (0, 0, 0), lumpy)
+        so = ob.modifiers.new('thick', 'SOLIDIFY'); so.thickness = thick; so.offset = 1
+        ob.modifiers.new('sub', 'SUBSURF').levels = 1
+        return ob
 
     def _skull_hit(self, x, z):
         p, n = self.surf(x, z)
